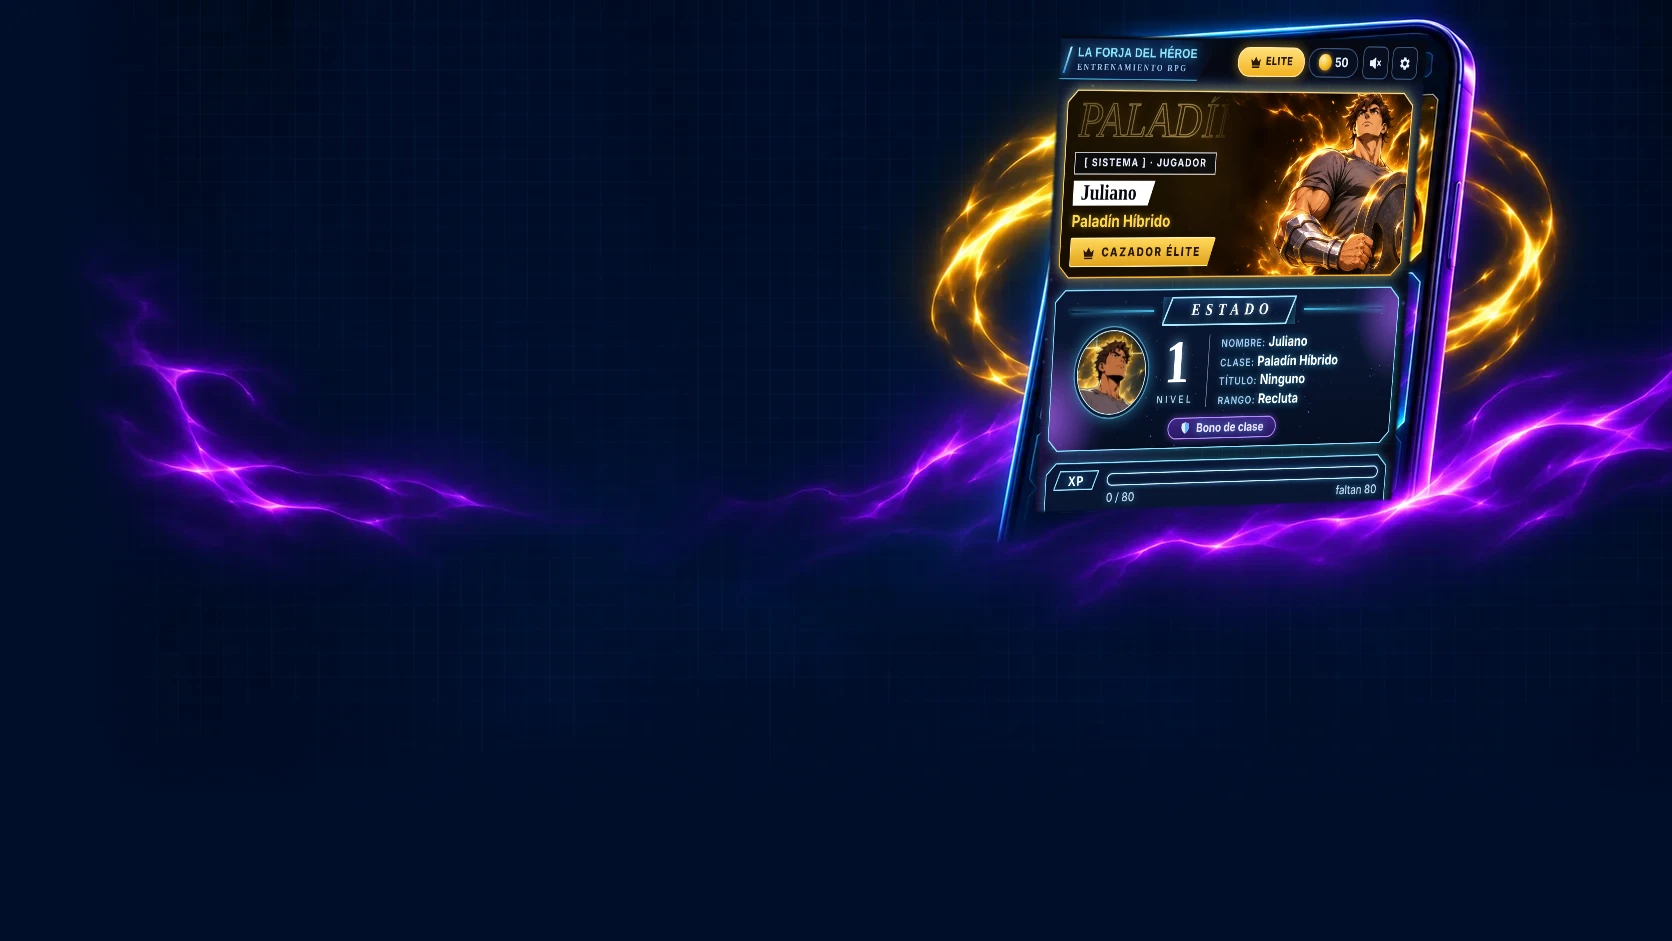
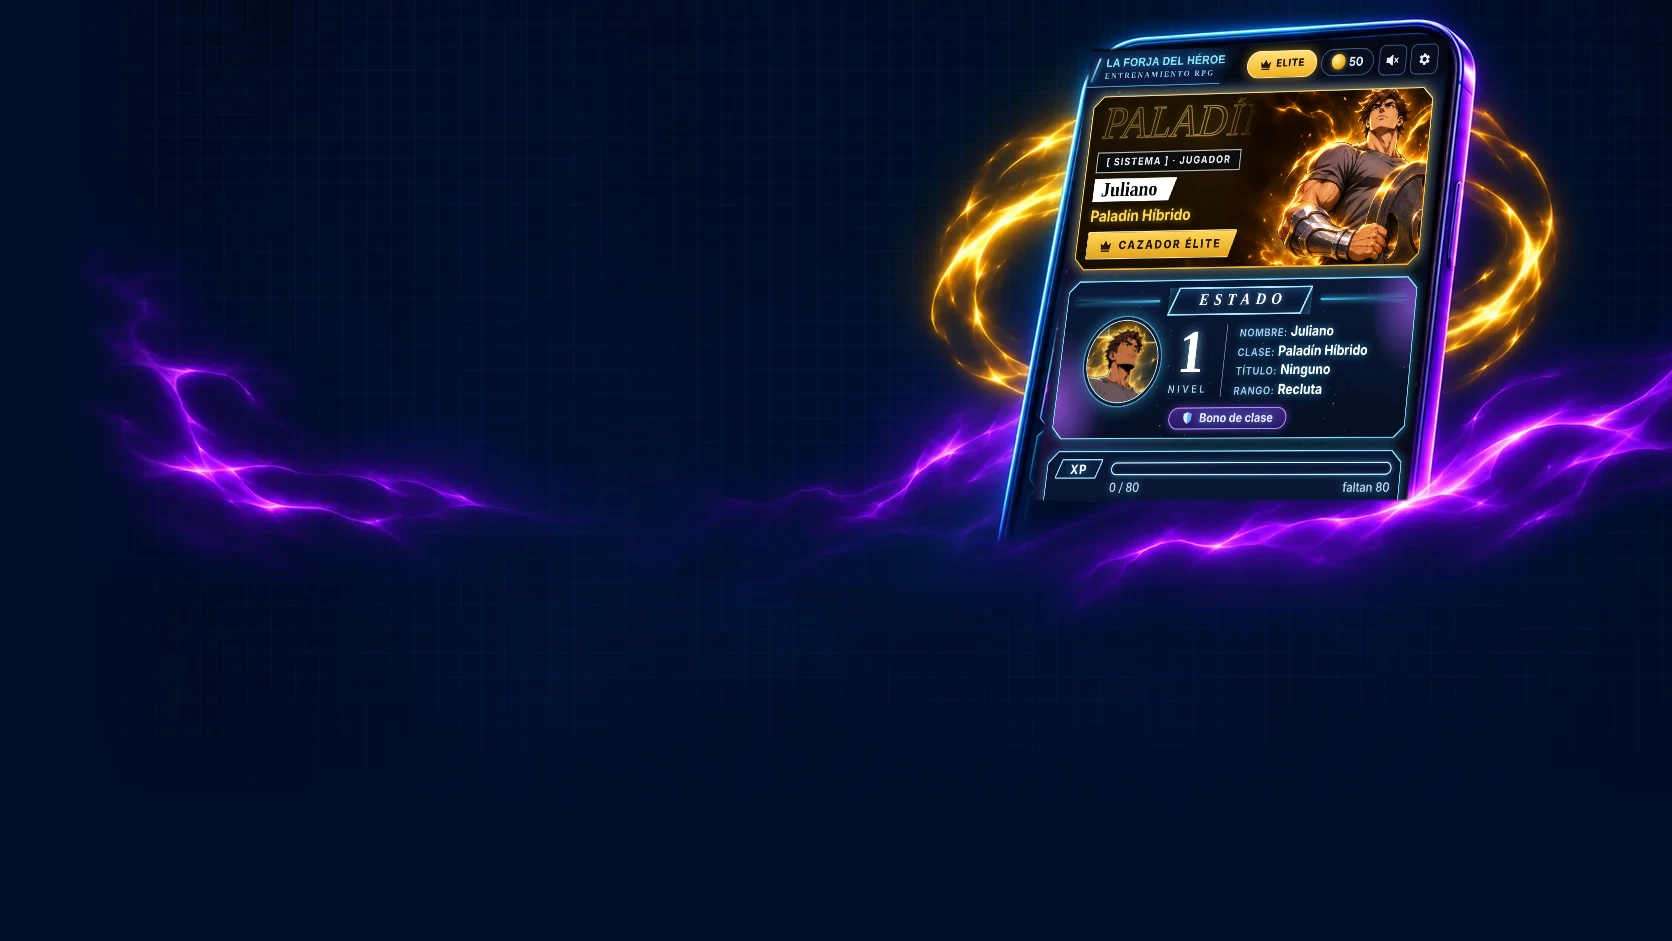
ES: imagens mais nítidas (celulares do site e da seção da lacuna) e títulos sem encolher demais
Claude-Session: https://claude.ai/code/session_01LVe9Kqr91i9gE3MjA7A5uT

Changed region(s): [[0.622, 0.0308, 0.8708, 0.5547]]

diff --git a/es/index.html b/es/index.html
@@ -278,9 +278,10 @@
 
 <script>window.FH={cur:'USD',name:'La Forja del Heroe',brand:'La Forja del Héroe',playing:'Reproduciendo',track:'Banda sonora',num:'es',price:{recruta:4.9,elite:9.9,popup:6.9},
  checkout:{recruta:'https://appdigitalhub.com.br/c/ES_RECLUTA',elite:'https://appdigitalhub.com.br/c/ES_ELITE',elitePopup:'https://appdigitalhub.com.br/c/ES_ELITE_POPUP'}};</script>
+<style>@media(max-width:760px){.lx-pill2 span{letter-spacing:.12em!important;font-size:.9em}}</style>
 <script>/* encaixa títulos longos (ES/EN) na largura da tela */
-(function(){const sel='.hx-h1 .l1,.hx-h1 .l2 b,.lx-h span,.sx-h,.cx-h,.ap-h span,.k-h,.tx-h,.g-h span,.p-h,.f-h';
-function fit(){document.querySelectorAll(sel).forEach(el=>{el.style.fontSize='';const box=el.closest('section')||document.body;const max=Math.min(box.clientWidth,innerWidth)-24;let fs=parseFloat(getComputedStyle(el).fontSize),i=0;
+(function(){const sel='.hx-h1 .l1,.hx-h1 .l2 b,.lx-h span,.sx-h,.cx-h,.ap-h span,.k-h,.tx-h,.p-h,.f-h';
+function fit(){document.querySelectorAll(sel).forEach(el=>{el.style.fontSize='';if(innerWidth>=760)return;const max=Math.min(el.parentElement.clientWidth,innerWidth-24);let fs=parseFloat(getComputedStyle(el).fontSize),i=0;
  el.style.whiteSpace=el.style.whiteSpace||'';const W=()=>Math.max(el.scrollWidth,el.getBoundingClientRect().width);while(W()>max&&fs>12&&i++<40){fs*=0.95;el.style.fontSize=fs+'px'}})}
 addEventListener('load',fit);addEventListener('resize',()=>{clearTimeout(window.__ft);window.__ft=setTimeout(fit,150)});document.fonts&&document.fonts.ready.then(fit)})();</script>
 <script src="/site.js?v=6"></script>

diff --git a/en/index.html b/en/index.html
@@ -278,9 +278,10 @@
 
 <script>window.FH={cur:'USD',name:'Heros Forge',brand:"Hero's Forge",playing:'Now playing',track:'Soundtrack',num:'en-US',price:{recruta:7.99,elite:14.99,popup:10.99},
  checkout:{recruta:'https://appdigitalhub.com.br/c/EN_RECRUIT',elite:'https://appdigitalhub.com.br/c/EN_ELITE',elitePopup:'https://appdigitalhub.com.br/c/EN_ELITE_POPUP'}};</script>
+<style>@media(max-width:760px){.lx-pill2 span{letter-spacing:.12em!important;font-size:.9em}}</style>
 <script>/* encaixa títulos longos (ES/EN) na largura da tela */
-(function(){const sel='.hx-h1 .l1,.hx-h1 .l2 b,.lx-h span,.sx-h,.cx-h,.ap-h span,.k-h,.tx-h,.g-h span,.p-h,.f-h';
-function fit(){document.querySelectorAll(sel).forEach(el=>{el.style.fontSize='';const box=el.closest('section')||document.body;const max=Math.min(box.clientWidth,innerWidth)-24;let fs=parseFloat(getComputedStyle(el).fontSize),i=0;
+(function(){const sel='.hx-h1 .l1,.hx-h1 .l2 b,.lx-h span,.sx-h,.cx-h,.ap-h span,.k-h,.tx-h,.p-h,.f-h';
+function fit(){document.querySelectorAll(sel).forEach(el=>{el.style.fontSize='';if(innerWidth>=760)return;const max=Math.min(el.parentElement.clientWidth,innerWidth-24);let fs=parseFloat(getComputedStyle(el).fontSize),i=0;
  el.style.whiteSpace=el.style.whiteSpace||'';const W=()=>Math.max(el.scrollWidth,el.getBoundingClientRect().width);while(W()>max&&fs>12&&i++<40){fs*=0.95;el.style.fontSize=fs+'px'}})}
 addEventListener('load',fit);addEventListener('resize',()=>{clearTimeout(window.__ft);window.__ft=setTimeout(fit,150)});document.fonts&&document.fonts.ready.then(fit)})();</script>
 <script src="/site.js?v=6"></script>

diff --git a/tools/i18n/lac.py b/tools/i18n/lac.py
@@ -9,17 +9,17 @@ async def main():
     srv=subprocess.Popen(['python3','-m','http.server','8792','-d',R],stdout=subprocess.DEVNULL,stderr=subprocess.DEVNULL);time.sleep(1)
     async with async_playwright() as p:
         b=await p.chromium.launch(executable_path='/usr/bin/google-chrome',args=['--no-sandbox'])
-        for path,key in [('app/','pt'),('es/app/','es'),('en/app/','en')]:
-            pg=await b.new_page(viewport={'width':392,'height':760},device_scale_factor=2)
+        for path,key in [('es/app/','es')]:
+            pg=await b.new_page(viewport={'width':372,'height':760},device_scale_factor=784/372)
             await pg.add_init_script(f"localStorage.setItem('forja_heroi_v1', {json.dumps(json.dumps(st))});localStorage.setItem('fh_install_hide','1');")
             await pg.route('https://fonts.googleapis.com/**',lambda r:r.fulfill(body=open('/home/claude/fonts.css').read(),content_type='text/css'))
             await pg.route('**/*supabase.co/rest/**',lambda r:r.abort())
             await pg.goto(f'http://localhost:8792/{path}',wait_until='domcontentloaded');await pg.wait_for_timeout(2500)
             await pg.evaluate("window.__FH_PLAN='elite';try{SFX.on=false}catch(e){};closeModal();"+PREP+"tab='heroi';render();scrollTo(0,0)")
-            await pg.wait_for_timeout(1200);await pg.screenshot(path=f'/tmp/lac-{key}.png');await pg.close()
+            await pg.wait_for_timeout(1200);print(await pg.evaluate("(()=>{const e=[...document.querySelectorAll('*')].find(x=>x.children.length==0&&/^faltan/.test(x.textContent.trim())&&x.getBoundingClientRect().height>0);const r=e.getBoundingClientRect();return [r.bottom,innerWidth]})()"));await pg.screenshot(path=f'/tmp/lac-{key}.png');await pg.close()
         await b.close()
     srv.terminate()
 asyncio.run(main())
-for n in ['lac-d','lac-m']:
+for n in []:
     for l in ['es','en']:
         print(n,l,place(f'{R}/img/v3/{n}.webp','/tmp/lac-pt.png',f'/tmp/lac-{l}.png',f'{R}/img/{l}/{n}.webp'))

diff --git a/tools/i18n/build_site.py b/tools/i18n/build_site.py
@@ -8,9 +8,10 @@ CFG={
  checkout:{recruta:'https://appdigitalhub.com.br/c/ES_RECLUTA',elite:'https://appdigitalhub.com.br/c/ES_ELITE',elitePopup:'https://appdigitalhub.com.br/c/ES_ELITE_POPUP'}};</script>""",
  'en':"""<script>window.FH={cur:'USD',name:'Heros Forge',brand:"Hero's Forge",playing:'Now playing',track:'Soundtrack',num:'en-US',price:{recruta:7.99,elite:14.99,popup:10.99},
  checkout:{recruta:'https://appdigitalhub.com.br/c/EN_RECRUIT',elite:'https://appdigitalhub.com.br/c/EN_ELITE',elitePopup:'https://appdigitalhub.com.br/c/EN_ELITE_POPUP'}};</script>"""}
-FIT='''<script>/* encaixa títulos longos (ES/EN) na largura da tela */
-(function(){const sel='.hx-h1 .l1,.hx-h1 .l2 b,.lx-h span,.sx-h,.cx-h,.ap-h span,.k-h,.tx-h,.g-h span,.p-h,.f-h';
-function fit(){document.querySelectorAll(sel).forEach(el=>{el.style.fontSize='';const box=el.closest('section')||document.body;const max=Math.min(box.clientWidth,innerWidth)-24;let fs=parseFloat(getComputedStyle(el).fontSize),i=0;
+FIT='''<style>@media(max-width:760px){.lx-pill2 span{letter-spacing:.12em!important;font-size:.9em}}</style>
+<script>/* encaixa títulos longos (ES/EN) na largura da tela */
+(function(){const sel='.hx-h1 .l1,.hx-h1 .l2 b,.lx-h span,.sx-h,.cx-h,.ap-h span,.k-h,.tx-h,.p-h,.f-h';
+function fit(){document.querySelectorAll(sel).forEach(el=>{el.style.fontSize='';if(innerWidth>=760)return;const max=Math.min(el.parentElement.clientWidth,innerWidth-24);let fs=parseFloat(getComputedStyle(el).fontSize),i=0;
  el.style.whiteSpace=el.style.whiteSpace||'';const W=()=>Math.max(el.scrollWidth,el.getBoundingClientRect().width);while(W()>max&&fs>12&&i++<40){fs*=0.95;el.style.fontSize=fs+'px'}})}
 addEventListener('load',fit);addEventListener('resize',()=>{clearTimeout(window.__ft);window.__ft=setTimeout(fit,150)});document.fonts&&document.fonts.ready.then(fit)})();</script>
 '''

diff --git a/tools/i18n/mock2.py b/tools/i18n/mock2.py
@@ -6,7 +6,7 @@ from playwright.async_api import async_playwright
 R = '/home/claude/forja-do-heroi-site'
 st = json.load(open('/home/claude/tav/state.json')); st.update(nov1=1, nov2=1)
 # nome: (aba, retângulo da tela no mockup)
-JOBS = {'sys-ph1': ('heroi', (13, 19, 349, 634)), 'sys-ph2': ('dungeon', (19, 19, 365, 634)), 'sys-ph3': ('missoes', (18, 19, 355, 634))}
+JOBS = {'sys-ph1': ('heroi', (22, 22, 342, 626)), 'sys-ph2': ('dungeon', (24, 20, 358, 630)), 'sys-ph3': ('missoes', (19, 19, 355, 630))}
 PREP = ("S.log=[];S.bonusXP=0;S.goldBonus=50;S.goldSpent=0;S.titles=[];S.title='';S.bosses={};S.q={};S.qTotal=0;"
         "S.cls='paladino';S.name='Juliano';S.horaHide=1;S.avHide=1;")
 
@@ -16,10 +16,10 @@ async def main():
     try:
         async with async_playwright() as p:
             b = await p.chromium.launch(executable_path='/usr/bin/google-chrome', args=['--no-sandbox'])
-            for lang in ['es', 'en']:
+            for lang in ['es']:
                 for name, (tab, (x0, y0, x1, y1)) in JOBS.items():
-                    W = 392; Hh = round(W * (y1 - y0) / (x1 - x0))
-                    pg = await b.new_page(viewport={'width': W, 'height': Hh}, device_scale_factor=2)
+                    W = 372; Hh = round(W * (y1 - y0) / (x1 - x0))
+                    pg = await b.new_page(viewport={'width': W, 'height': Hh}, device_scale_factor=3)
                     await pg.add_init_script(f"localStorage.setItem('forja_heroi_v1', {json.dumps(json.dumps(st))});localStorage.setItem('fh_install_hide','1');")
                     await pg.route('https://fonts.googleapis.com/**', lambda r: r.fulfill(body=open('/home/claude/fonts.css').read(), content_type='text/css'))
                     await pg.route('**/*supabase.co/rest/**', lambda r: r.abort())

diff --git a/tools/i18n/lacm.py b/tools/i18n/lacm.py
@@ -14,15 +14,15 @@ mask=np.zeros(d.shape[:2],np.uint8);mask[0:520,1050:1480]=255
 Hpd,a1,b1=H(pt,d);Hdm,a2,b2=H(d,m,mask);print(a1,b1,a2,b2)
 Hpm=Hdm@Hpd
 h,w=pt.shape[:2]
-sm=np.zeros((h,w),np.uint8);cv2.rectangle(sm,(0,0),(w,808),255,-1)
+sm=np.zeros((h,w),np.uint8);cv2.rectangle(sm,(0,0),(w,852),255,-1)
 def comp(base,Hx,out_name):
     wm=cv2.warpPerspective(sm,Hx,(base.shape[1],base.shape[0]))
     mk=cv2.GaussianBlur(cv2.erode(wm,np.ones((3,3),np.uint8)),(5,5),0).astype(np.float32)[...,None]/255
     # o fim do conteúdo some suavemente (como no original)
-    for l in ['es','en']:
+    for l in ['es']:
         tr=L(f'/tmp/lac-{l}.png');wp=cv2.warpPerspective(tr,Hx,(base.shape[1],base.shape[0]),flags=cv2.INTER_AREA)
         Image.fromarray((wp*mk+base*(1-mk)).astype(np.uint8)).save(f'{R}/img/{l}/{out_name}.webp',quality=90)
-src=np.float32([[0,0],[w,0],[w,808],[0,808]])
-dst=np.float32([[1060,34],[1428,40],[1392,500],[1034,512]])
+src=np.float32([[0,0],[w,0],[w,852],[0,852]])
+dst=np.float32([[1090,48],[1450,36],[1408,500],[1033,500]])
 Hq=cv2.getPerspectiveTransform(src,dst)
-comp(d,Hq,'lac-d');comp(m,Hdm@Hq,'lac-m')
+comp(d,Hq,'lac-d');comp(m,cv2.getPerspectiveTransform(src,np.float32([[292,60],[746,48],[700,636],[214,640]])),'lac-m')
